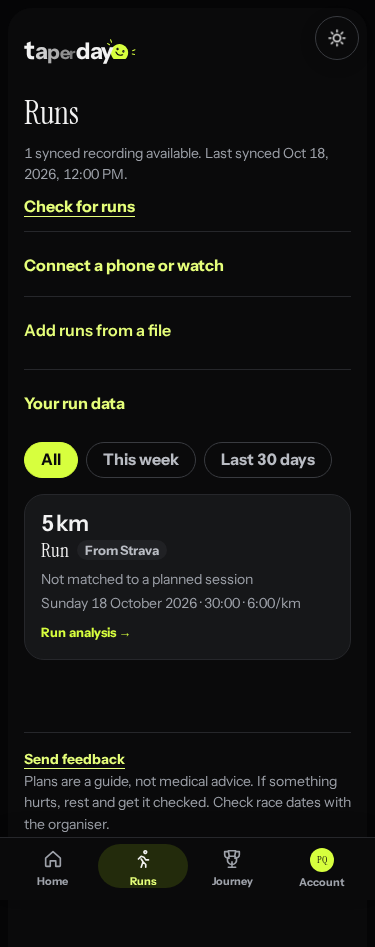
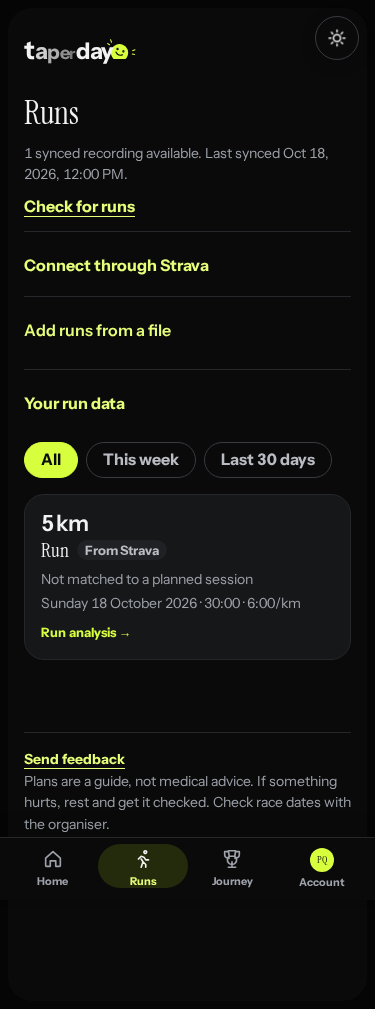
fix(ux): lead with Strava and preserve Home after training

diff --git a/client/e2e/phone-runs.spec.ts b/client/e2e/phone-runs.spec.ts
@@ -59,14 +59,14 @@ async function mockApi(page: Page, hasPlan = false, imports?: Imports) {
 }
 
 for (const mode of ['light', 'dark']) {
-  test(`Nike runner finds phone help, understands history limits and opens connections in ${mode} mode @phone`, async ({ page }, info) => {
+  test(`Strava setup leads with free accounts and keeps app-specific help optional in ${mode} mode @phone`, async ({ page }, info) => {
     const errors: string[] = []
     page.on('pageerror', error => errors.push(error.message))
     await mockApi(page)
     await page.goto('http://127.0.0.1:5176/e2e/fixtures/journey.html?view=runs')
     await page.evaluate(value => { document.documentElement.dataset.theme = value }, mode)
     await page.getByText('Add runs from a file', { exact: true }).click()
-    await page.getByRole('button', { name: 'See phone & watch setup', exact: true }).click()
+    await page.getByRole('button', { name: 'See Strava setup', exact: true }).click()
     const guide = page.locator('details.phone-runs')
     await expect(guide).toHaveAttribute('open', '')
     await expect(guide.locator(':scope > summary')).toBeFocused()
@@ -74,6 +74,10 @@ for (const mode of ['light', 'dark']) {
     const header = await page.locator('.masthead').boundingBox()
     expect(focused!.y).toBeGreaterThanOrEqual(header!.y + header!.height)
     await expect(guide.getByText('A free Strava account is enough.', { exact: true })).toBeVisible()
+    await expect(guide.getByRole('img', { name: 'Powered by Strava' })).toBeVisible()
+    const appHelp = guide.locator('details.device-guide')
+    await expect(appHelp).not.toHaveAttribute('open', '')
+    await appHelp.locator(':scope > summary').click()
     await guide.getByText('Nike Run Club', { exact: true }).click()
     await expect(guide.getByText(/Settings → Partners → Strava/)).toBeVisible()
     await expect(guide.getByText(/Only runs recorded after linking Nike to Strava will sync/)).toBeVisible()
@@ -95,10 +99,15 @@ for (const mode of ['light', 'dark']) {
       // Help stays open when the mobile panel moves into the desktop split view.
       await expect(page.locator('.runs-split')).toHaveCount(width >= 1024 ? 1 : 0)
       await expect(guide).toHaveAttribute('open', '')
+      const help = guide.locator('details.device-guide')
+      if (await help.getAttribute('open') === null) await help.locator(':scope > summary').click()
       const nike = guide.locator('[data-run-source=nike]')
       if (!await nike.getAttribute('open').then(value => value !== null)) await nike.locator('summary').click()
       await expect(guide.getByText(/Settings → Partners → Strava/)).toBeVisible()
       await page.evaluate(() => document.fonts.ready)
+      const mark = guide.getByRole('img', { name: 'Powered by Strava' })
+      if (mode === 'dark') { await expect(mark.locator('.strava-powered-screen')).toBeVisible(); await expect(mark.locator('.strava-powered-print')).toBeHidden() }
+      else { await expect(mark.locator('.strava-powered-print')).toBeVisible(); await expect(mark.locator('.strava-powered-screen')).toBeHidden() }
       expect(await page.evaluate(() => document.documentElement.scrollWidth - innerWidth), `${width}px`).toBeLessThanOrEqual(1)
       const audit = await new AxeBuilder({ page }).withTags(['wcag2a', 'wcag2aa', 'wcag21a', 'wcag21aa', 'wcag22aa']).analyze()
       expect(audit.violations.map(v => ({ id: v.id, targets: v.nodes.map(n => n.target) }))).toEqual([])
@@ -124,7 +133,7 @@ for (const mode of ['light', 'dark']) {
 test('phone runner can reach the existing manual training log without a recording @phone', async ({ page }) => {
   await mockApi(page, true)
   await page.goto('http://127.0.0.1:5176/e2e/fixtures/journey.html?view=runs')
-  await page.getByText('Connect a phone or watch', { exact: true }).click()
+  await page.getByText('Connect through Strava', { exact: true }).click()
   await page.getByRole('button', { name: 'Open my training plan', exact: true }).click()
   await page.getByRole('button', { name: 'Log a run', exact: true }).click()
   await expect(page.getByLabel('Run date', { exact: true })).toBeVisible()
@@ -213,4 +222,33 @@ test('a skipped recording gains an explanation when pending work completes even 
   await expect(page.getByRole('heading', { name: 'Runs from Strava that didn’t arrive', exact: true })).toBeVisible()
   await expect(page.getByText(/Strava did not share usable time and distance recording samples/)).toBeVisible()
   await expect(page.getByRole('link', { name: /Strava run,/ })).toHaveAttribute('href', 'https://www.strava.com/activities/12345')
+})
+
+test('Strava setup stays concise with app and watch instructions closed by default @phone', async ({ page }, info) => {
+  await mockApi(page)
+  await page.setViewportSize({ width: 375, height: 900 })
+  await page.goto('http://127.0.0.1:5176/e2e/fixtures/journey.html?view=runs')
+  const guide = page.locator('details.phone-runs')
+  await guide.locator(':scope > summary').click()
+  const help = guide.locator('details.device-guide')
+  await expect(help).not.toHaveAttribute('open', '')
+  await expect(guide.getByText('Nike Run Club', { exact: true })).toBeHidden()
+  await expect(guide.getByText('A free Strava account is enough.', { exact: true })).toBeVisible()
+  await expect(guide.getByRole('button', { name: 'Open connection settings', exact: true })).toBeVisible()
+  for (const mode of ['light', 'dark']) {
+    await page.evaluate(value => { document.documentElement.dataset.theme = value }, mode)
+    await page.evaluate(() => document.fonts.ready)
+    const mark = guide.getByRole('img', { name: 'Powered by Strava' })
+    await expect(mark).toBeVisible()
+    if (mode === 'dark') await expect(mark.locator('.strava-powered-screen')).toBeVisible()
+    else await expect(mark.locator('.strava-powered-print')).toBeVisible()
+    const audit = await new AxeBuilder({ page }).withTags(['wcag2a', 'wcag2aa', 'wcag21a', 'wcag21aa', 'wcag22aa']).analyze()
+    expect(audit.violations.map(v => ({ id: v.id, targets: v.nodes.map(n => n.target) }))).toEqual([])
+    expect(await page.evaluate(() => document.documentElement.scrollWidth - innerWidth)).toBeLessThanOrEqual(1)
+    if (info.project.name === 'desktop') {
+      await mkdir(qa, { recursive: true })
+      await page.evaluate(() => window.scrollTo(0, 0))
+      await page.screenshot({ path: `${qa}/strava-setup-375-${mode}.png`, fullPage: true })
+    }
+  }
 })

diff --git a/client/src/features/runner-home/HomeLanding.test.tsx b/client/src/features/runner-home/HomeLanding.test.tsx
@@ -1,0 +1,46 @@
+import { render, screen, within } from '@testing-library/react'
+import userEvent from '@testing-library/user-event'
+import { http, HttpResponse } from 'msw'
+import { afterEach, beforeEach, expect, it, vi } from 'vitest'
+import { App } from '../../app/App'
+import { accountsOff, AuthContext } from '../../app/auth-context'
+import { server } from '../../test/server'
+import { chapter, journeyOf, raceResult, recovery } from '../journey/journey-fixtures'
+
+const auth = { ...accountsOff, enabled: true, account: { id: 'home-runner', name: 'Naledi', email: 'home@example.test' }, getToken: async () => 'test-token' }
+const runner = { id: 'home-runner', displayName: 'Naledi', email: 'home@example.test', timeZone: 'UTC', units: 'Kilometres',
+  needsPrivacyConsent: false, privacyNoticeVersion: '2026-10-21', maxHeartRate: null, heartRateConsent: false, weeklyEmails: false }
+
+beforeEach(() => {
+  vi.useFakeTimers({ toFake: ['Date'] })
+  vi.setSystemTime(new Date('2026-11-16T09:00:00Z'))
+})
+afterEach(() => vi.useRealTimers())
+
+it.each(['Concluded', 'Recovering', 'Recovered'] as const)('keeps Home available on a fresh device after %s, without opening recovery automatically', async phase => {
+  const training = chapter({ raceDate: '2026-11-14', status: 'Concluded', lifecycle: 'Concluded', raceResult: phase === 'Concluded' ? null : raceResult() })
+  const data = journeyOf([training], { recovery: phase === 'Concluded' ? null : recovery({ status: phase === 'Recovering' ? 'Active' : 'Completed' }) })
+  server.use(
+    http.get('*/api/v1/me', () => HttpResponse.json(runner)),
+    http.get('*/api/v1/me/plans', () => HttpResponse.json([])),
+    http.get('*/api/v1/me/journey', () => HttpResponse.json(data)),
+    http.get('*/api/v1/me/beginner', () => new HttpResponse(null, { status: 204 })),
+  )
+  window.history.replaceState(null, '', '/')
+  const user = userEvent.setup()
+  render(<AuthContext.Provider value={auth}><App /></AuthContext.Provider>)
+  expect(await screen.findByRole('heading', { name: 'Welcome back, Naledi', level: 1 })).toBeVisible()
+  expect(window.location.search).toBe('?view=home')
+  expect(screen.queryByRole('heading', { name: 'Your recovery plan.' })).not.toBeInTheDocument()
+  expect(screen.queryByRole('heading', { name: 'Which race?' })).not.toBeInTheDocument()
+  const navigation = screen.getByRole('navigation', { name: 'Main' })
+  expect(within(navigation).getByRole('button', { name: 'Home' })).toHaveAttribute('aria-current', 'page')
+  const action = phase === 'Concluded' ? 'Review my race' : phase === 'Recovering' ? 'Open recovery plan' : "Choose what's next"
+  expect(screen.getByRole('button', { name: action })).toBeVisible()
+  await user.click(within(navigation).getByRole('button', { name: 'Runs' }))
+  expect(await screen.findByRole('heading', { name: 'Runs', level: 2 })).toBeVisible()
+  await user.click(screen.getByRole('button', { name: 'Taperday' }))
+  expect(screen.getByRole('heading', { name: 'Welcome back, Naledi', level: 1 })).toBeVisible()
+  expect(screen.getByRole('button', { name: action })).toBeVisible()
+  expect(within(screen.getByRole('navigation', { name: 'Main' })).getByRole('button', { name: 'Home' })).toHaveAttribute('aria-current', 'page')
+})

diff --git a/client/e2e/training-recovery.spec.ts b/client/e2e/training-recovery.spec.ts
@@ -363,3 +363,39 @@ test('ending recovery offers a direct new-race action on Home and keeps recent a
   await page.getByRole('button', { name: "Choose what's next", exact: true }).click()
   await expect(page.getByRole('heading', { name: 'Choose your next chapter.', exact: true })).toBeVisible()
 })
+
+for (const phase of ['Concluded', 'Recovering', 'Recovered']) {
+  test(`Home stays the home destination on a fresh device after ${phase}, across reload and navigation @phone`, async ({ page }, info) => {
+    const { state } = await setup(page, { recovering: phase !== 'Concluded' })
+    if (phase === 'Recovered') state.recovery = { ...state.recovery!, status: 'Completed', endedOn: '2026-11-15' }
+    await page.setViewportSize({ width: 375, height: 812 })
+    await page.goto(fixture)
+    const greeting = page.getByRole('heading', { name: 'Welcome back, Naledi', level: 1, exact: true })
+    const nav = page.getByRole('navigation', { name: 'Main', exact: true })
+    await expect(greeting).toBeVisible()
+    await expect(page).toHaveURL(/view=home/)
+    await expect(nav.getByRole('button', { name: 'Home', exact: true })).toHaveAttribute('aria-current', 'page')
+    await expect(page.getByRole('heading', { name: 'Which race?', exact: true })).toHaveCount(0)
+    await expect(page.getByRole('heading', { name: 'Your recovery plan.', exact: true })).toHaveCount(0)
+    await calmHome(page)
+    expect(state.starts).toEqual([])
+    await page.reload()
+    await expect(greeting).toBeVisible()
+    const action = phase === 'Concluded' ? 'Review my race' : phase === 'Recovering' ? 'Open recovery plan' : "Choose what's next"
+    await expect(page.getByRole('button', { name: action, exact: true })).toBeVisible()
+    await nav.getByRole('button', { name: 'Runs', exact: true }).click()
+    await expect(page.getByRole('heading', { name: 'Runs', exact: true })).toBeVisible()
+    await page.getByRole('button', { name: 'Taperday', exact: true }).click()
+    await expect(greeting).toBeVisible()
+    await expect(nav.getByRole('button', { name: 'Home', exact: true })).toHaveAttribute('aria-current', 'page')
+    await expect(page.getByRole('button', { name: action, exact: true })).toBeVisible()
+    expect(state.starts).toEqual([])
+    if (info.project.name === 'desktop') {
+      const shots = fileURLToPath(new URL('../../docs/qa/2026-11-17/phone-runs/', import.meta.url))
+      await mkdir(shots, { recursive: true })
+      await page.evaluate(() => { document.documentElement.dataset.theme = 'dark' })
+      await page.evaluate(() => document.fonts.ready)
+      await page.screenshot({ path: `${shots}/home-preserved-375-${phase.toLowerCase()}.png`, fullPage: true })
+    }
+  })
+}

diff --git a/client/src/app/App.tsx b/client/src/app/App.tsx
@@ -412,6 +412,8 @@ export function App() {
   // there's nothing to show yet: a first sign-in here, or a brand new account.
   const knownHere = copy?.runner !== undefined
   const latestPlan = currentPlan.current
+  // A completed chapter still has a Home on a new device, without relying on a cached profile.
+  const returningAfterPlan = latestPlan === null && journey.state.kind === 'ready' && isPostTrainingHome(journey.state.journey, null, today)
   // Completing Microsoft sign-in must not strand returning runners on the sign-in URL.
   // Wait for the saved-plan lookup; only then decide between their plan and Home.
   useEffect(() => {
@@ -427,7 +429,7 @@ export function App() {
     }
   }, [view, runner.state.kind, latestPlan])
   useEffect(() => {
-    if (landing.current || !(found || knownHere) || initial || view !== 'build' || plan.kind !== 'idle' || editing) return
+    if (landing.current || !(found || knownHere || returningAfterPlan) || initial || view !== 'build' || plan.kind !== 'idle' || editing) return
     landing.current = true
     // A runner coming back with their plan kept on this device opens straight on it, as opening it from Home would show
     // it, while the account loads. Only before this visit has found their plan: after that, Home opens it for real.
@@ -460,7 +462,7 @@ export function App() {
     })
     // build is a fresh function each render; what it does doesn't change.
     // eslint-disable-next-line react-hooks/exhaustive-deps
-  }, [found, knownHere, initial, view, plan.kind, editing, copy, latestPlan])
+  }, [found, knownHere, returningAfterPlan, initial, view, plan.kind, editing, copy, latestPlan])
 
   // Once the account says which plan is current, the copy gives way to it, as opening the plan from Home would: the same
   // plan is brought up to date by the coach (above), a plan changed on another device is built afresh, and a plan deleted

diff --git a/client/src/features/activities/PhoneRunGuide.tsx b/client/src/features/activities/PhoneRunGuide.tsx
@@ -1,4 +1,5 @@
 import { RunningAppGuides } from '../sync/RunningAppGuides'
+import { PoweredByStrava } from '../sync/StravaBrand'
 
 interface Props {
   onOpenConnections: () => void
@@ -9,11 +10,12 @@ interface Props {
 export function PhoneRunGuide({ onOpenConnections, onOpenPlan }: Props) {
   return (
     <div className="phone-run-guide">
+      <PoweredByStrava />
       <p><strong>A free Strava account is enough.</strong> Connect it to Taperday once. Record with Strava on your phone, or link your running app or watch to Strava, and shared recordings import automatically.</p>
       <button type="button" className="button button-primary" onClick={onOpenConnections}>Open connection settings</button>
       <p className="field-help"><a href="https://www.strava.com/mobile" target="_blank" rel="noopener noreferrer">Get Strava for your phone</a> · No paid Strava subscription required.</p>
-      <p className="field-help">Taperday checks recordings from the last six weeks. Time and distance come from the recording; heart rate and elevation appear when your recorder shares them. Open your app or watch below for its setup and history limits.</p>
-      <RunningAppGuides />
+      <p className="field-help">Taperday checks recordings from the last six weeks. Time and distance come from the recording; heart rate and elevation appear when your recorder shares them. Your recording app controls which runs and measurements it shares.</p>
+      <details className="device-guide"><summary>Help connecting my app or watch</summary><RunningAppGuides /></details>
       {onOpenPlan && <>
         <h3>No file for a training run?</h3>
         <p className="field-help">In your current training plan, use <strong>Log a run</strong> to save the time and distance you know. A manual log does not add GPS data or recording analysis.</p>

diff --git a/client/src/features/activities/activities.test.tsx b/client/src/features/activities/activities.test.tsx
@@ -142,11 +142,15 @@ describe('my runs', () => {
     server.use(http.get('*/api/v1/me/sync/strava', () => HttpResponse.json({ available: true, connected: false })))
     const user = renderApp('/?view=runs')
     await openDisclosure('Add runs from a file')
-    await user.click(await screen.findByRole('button', { name: 'See phone & watch setup' }))
-    const phone = screen.getByText('Connect a phone or watch').closest('details')!
+    await user.click(await screen.findByRole('button', { name: 'See Strava setup' }))
+    const phone = screen.getByText('Connect through Strava').closest('details')!
     expect(phone).toHaveAttribute('open')
     expect(phone.querySelector('summary')).toHaveFocus()
     expect(within(phone).getByText('A free Strava account is enough.')).toBeVisible()
+    expect(within(phone).getByRole('img', { name: 'Powered by Strava' })).toBeVisible()
+    const help = within(phone).getByText('Help connecting my app or watch').closest('details')!
+    expect(help).not.toHaveAttribute('open')
+    await user.click(within(phone).getByText('Help connecting my app or watch'))
     await user.click(within(phone).getByText('Nike Run Club', { exact: true }))
     expect(within(phone).getByText(/Settings → Partners → Strava/)).toBeVisible()
     expect(within(phone).getByText(/Only runs recorded after linking Nike to Strava will sync/)).toBeVisible()

diff --git a/client/src/features/sync/StravaWelcome.tsx b/client/src/features/sync/StravaWelcome.tsx
@@ -18,7 +18,7 @@ export function StravaWelcome({ onContinue, notice, connecting = false }: Props)
     <section className="strava-welcome panel" aria-labelledby="strava-welcome-title">
       <p className="field-help">Connect your runs · optional</p>
       <h1 id="strava-welcome-title">Bring your runs with you.</h1>
-      <p>Connect Strava once, and runs recorded on your watch can arrive in Taperday automatically after they sync to Strava. We'll compare them with your training plan.</p>
+      <p>Connect a free Strava account once. Record on your phone, or link your running app or watch to Strava, and shared recordings arrive in Taperday automatically. No paid Strava subscription is required.</p>
       <StravaSection key={notice ?? 'initial'} notice={notice} connecting={connecting} onStatusChange={setStatus} />
       {ready && !status.available && !status.connected && (
         <p className="field-help" role="status">Strava connections aren't available right now. You can still build your plan and connect later.</p>

diff --git a/client/src/features/activities/MyRuns.tsx b/client/src/features/activities/MyRuns.tsx
@@ -132,7 +132,7 @@ export function MyRuns({ units, onOpen, selectedId, onOpenConnections, onOpenPla
       </h2>
 
       <RunImportStatus status={imports.strava} error={imports.syncError} busy={imports.syncing} onCheck={() => void imports.refresh()} onConnect={onOpenConnections} />
-      <details ref={phoneRef} className="disclosure phone-runs" open={phoneOpen} onToggle={event => setPhoneOpen(event.currentTarget.open)}><summary>Connect a phone or watch</summary>
+      <details ref={phoneRef} className="disclosure phone-runs" open={phoneOpen} onToggle={event => setPhoneOpen(event.currentTarget.open)}><summary>Connect through Strava</summary>
         <PhoneRunGuide onOpenConnections={onOpenConnections} onOpenPlan={onOpenPlan} />
       </details>
       <details className="disclosure upload"><summary>Add runs from a file{running && <span role="status"> · Importing…</span>}{(singleError || bulk?.error) && <span className="field-error"> · Needs attention</span>}</summary>

diff --git a/client/src/features/sync/StravaBrand.tsx b/client/src/features/sync/StravaBrand.tsx
@@ -12,11 +12,11 @@ export function ConnectWithStrava({ onClick, disabled }: { onClick: () => void; 
   )
 }
 
-/** "Powered by Strava", beside data that came from Strava. White on the dark screen, black when printed. */
+/** "Powered by Strava", beside data that came from Strava, using the supplied light/dark marks. */
 export function PoweredByStrava() {
   return (
-    <span className="strava-powered">
-      <img className="strava-powered-screen" src="/strava/api_logo_pwrdBy_strava_horiz_white.svg" width={110} height={11} alt="Powered by Strava" />
+    <span className="strava-powered" role="img" aria-label="Powered by Strava">
+      <img className="strava-powered-screen" src="/strava/api_logo_pwrdBy_strava_horiz_white.svg" width={110} height={11} alt="" aria-hidden="true" />
       <img className="strava-powered-print" src="/strava/api_logo_pwrdBy_strava_horiz_black.svg" width={110} height={11} alt="" aria-hidden="true" />
     </span>
   )

diff --git a/client/src/styles/overview.css b/client/src/styles/overview.css
@@ -274,8 +274,16 @@
   width: auto;
 }
 
-.strava-powered-print {
-  display: none;
+/* Use Strava's original black/white marks rather than recolouring them. */
+.strava-powered-screen { display: none; }
+.strava-powered-print { display: inline; }
+@media screen and (prefers-color-scheme: dark) {
+  :root:not([data-theme='light']) .strava-powered-screen { display: inline; }
+  :root:not([data-theme='light']) .strava-powered-print { display: none; }
+}
+@media screen {
+  :root[data-theme='dark'] .strava-powered-screen { display: inline; }
+  :root[data-theme='dark'] .strava-powered-print { display: none; }
 }
 
 /* Strava asks for "View on Strava" in bold, underlined or #FC5200; bold and underlined keeps Taperday's palette. */

diff --git a/client/src/features/activities/ExportGuide.tsx b/client/src/features/activities/ExportGuide.tsx
@@ -8,7 +8,7 @@ export function ExportGuide({ onPhoneHelp }: { onPhoneHelp: () => void }) {
   return (
     <div className="export-guide">
       <p className="field-help">Recording on your phone or watch? You can connect a compatible running app instead of exporting files.</p>
-      <button type="button" className="link-button" onClick={onPhoneHelp}>See phone &amp; watch setup</button>
+      <button type="button" className="link-button" onClick={onPhoneHelp}>See Strava setup</button>
       <details className="export-way">
         <summary>Garmin</summary>
         <p className="field-help">

diff --git a/docs/qa/2026-11-17/phone-runs/README.md b/docs/qa/2026-11-17/phone-runs/README.md
@@ -1,8 +1,14 @@
 # Phone, watch and automatic import coverage
 
-Runs now offers one collapsed **Connect a phone or watch** guide before file upload. It explicitly says a **free Strava account is enough**, links the phone app, and explains connecting the same account to Taperday. Individual setup rows cover Strava phone recording, Nike Run Club, Garmin, Apple Workout, Samsung Health, Fitbit/Pixel/Google Health, Huawei, COROS, Polar/Suunto/Wahoo, indoor/virtual runs and other apps/files. Account uses the same source guidance. The open outer guide survives mobile/desktop layout changes; export help opens it with keyboard focus below the sticky header.
+Runs leads with **Connect through Strava** before file upload. The short setup shows the official **Powered by Strava** mark and a single connection-settings action. App/watch instructions are optional under **Help connecting my app or watch**. It explicitly says a **free Strava account is enough**, links the phone app, and explains connecting the same account to Taperday. Individual setup rows cover Strava phone recording, Nike Run Club, Garmin, Apple Workout, Samsung Health, Fitbit/Pixel/Google Health, Huawei, COROS, Polar/Suunto/Wahoo, indoor/virtual runs and other apps/files. Account uses the same source guidance. Onboarding also explicitly includes phone recordings and free accounts, rather than referring only to watches. The open outer guide survives mobile/desktop layout changes; export help opens it with keyboard focus below the sticky header.
 
 Known measurements come from the recording. No watch, paid runner subscription or invented recording is required. Missing heart rate/elevation stay missing. Source-specific limits are explicit: Nike only sends newly recorded runs after linking; Apple's connection forwards native Apple Workout activities from the past 30 days, not arbitrary Health entries; Samsung's connection is Android/GPS only; Huawei availability varies by country. Direct native Apple Health/Health Connect access is unavailable in this web app. A compatible FIT, GPX or TCX file remains an alternative. Manual training logging is offered when a current training plan exists, retaining its existing date limits.
+
+## Home stays Home
+
+The existing Home layout, greeting, colours, animation and navigation are preserved. Race review and the recovery preview remain contextual actions within Home; recovery is its own Plan destination and never replaces Home. Concluded training, active recovery and completed recovery each retain the Home navigation item and wordmark return action.
+
+A fresh-device gap was fixed: when there is no current training plan and the saved Journey contains completed training/recovery, opening the root URL now opens Home even without a cached profile. Explicit plan links, new-plan creation and the existing active-training landing behavior are preserved. `HomeLanding.test.tsx` and the fresh-device sequences in `training-recovery.spec.ts` cover all three post-plan states, reload, Runs navigation and the wordmark return. No production Home component or Home layout stylesheet was changed.
 
 ## Reliability changes
 
@@ -16,9 +22,12 @@ Synthetic runners and production fonts. Default synced Runs stays compact; setup
 
 | View | Light | Night Run |
 | --- | --- | --- |
-| Setup, 375px | [Phone](phone-375-light.png) | [Phone](phone-375-dark.png) |
+| Strava setup, provider help closed | [Phone](strava-setup-375-light.png) | [Phone](strava-setup-375-dark.png) |
+| Setup detail, 375px | [Phone](phone-375-light.png) | [Phone](phone-375-dark.png) |
 | Setup, 1440px | [Desktop](phone-1440-light.png) | [Desktop](phone-1440-dark.png) |
 | Synced Runs, 375px | [Phone](synced-375-light.png) | [Phone](synced-375-dark.png) |
+
+Preserved Home: [training concluded](home-preserved-375-concluded.png), [recovering](home-preserved-375-recovering.png), [recovered](home-preserved-375-recovered.png).
 
 Before this expansion: [phone guide at d9a159c](https://github.com/Menzi-Thami/start-line/blob/d9a159c48c3d7424546c9da6bbaab761387eadc1/docs/qa/2026-11-17/phone-runs/phone-375-dark.png). The same PR preserves Night Run colours, typography, runner animation, bottom navigation, uploads, analysis and provider retention.
 
